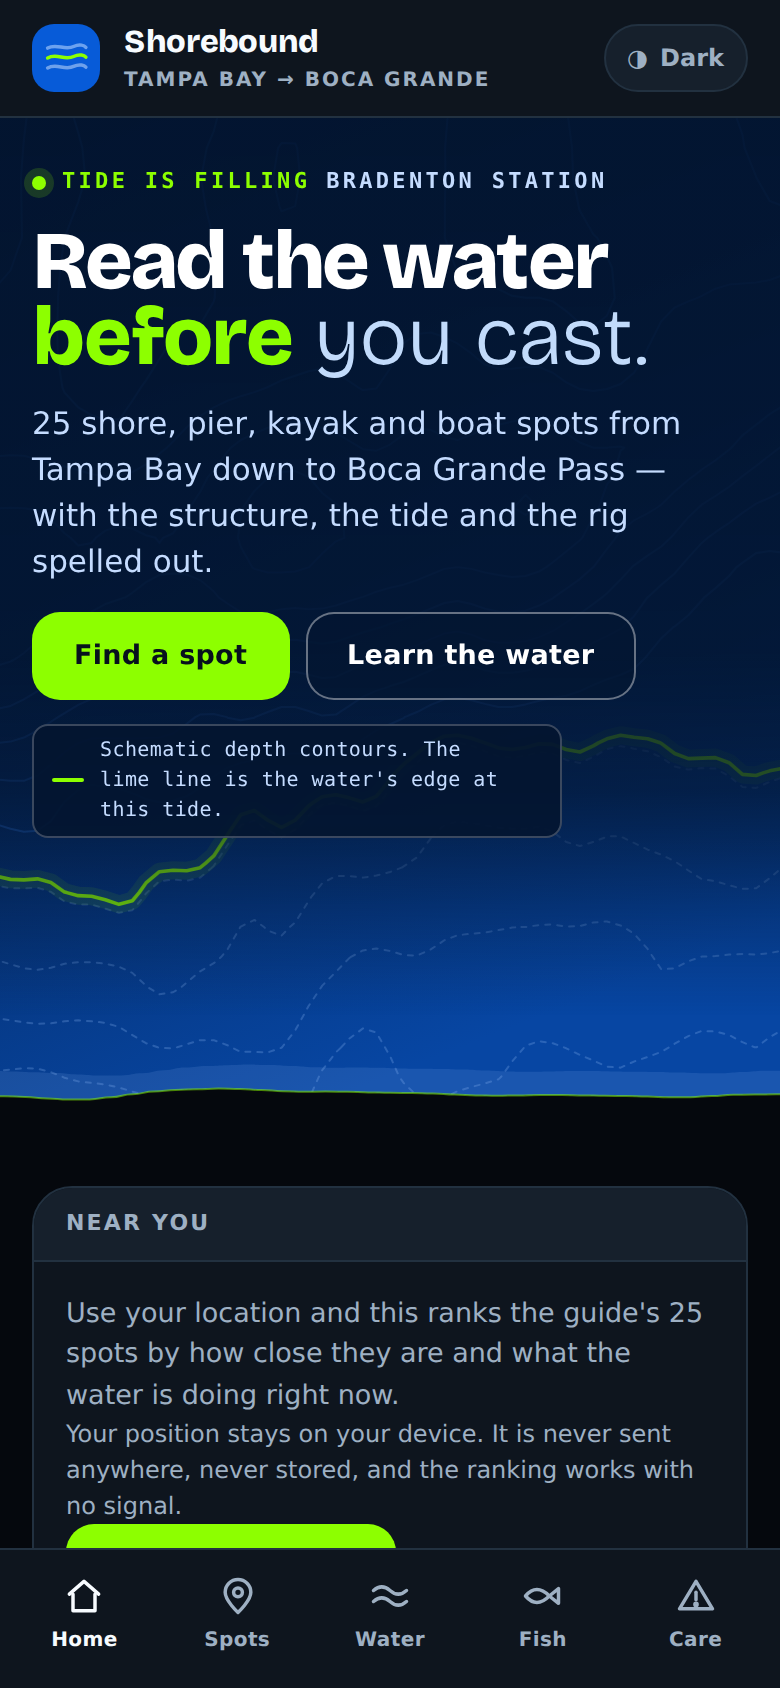
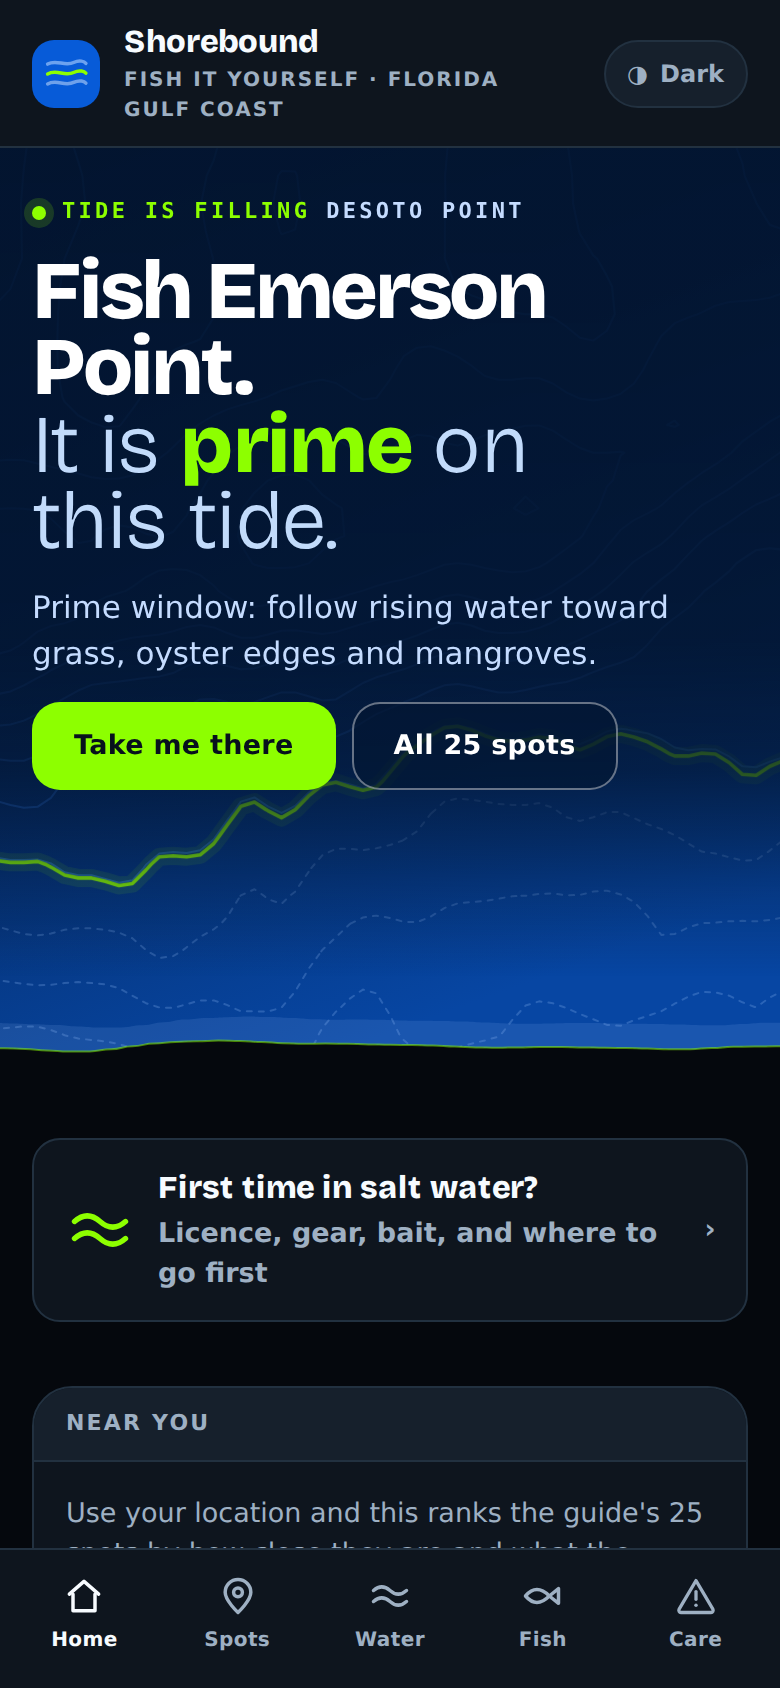
Make the home page answer instead of pitch
It opened with a poster — a slogan about reading the water over an ambient
chart — and buried the actual answer three sections down. That describes the
app rather than doing anything, which is why it read weak next to what the
app can actually do.

It knows the tide at a real station right now and which of its 25 spots fishes
that tide. So the front page says so: "Fish Emerson Point. It is prime on this
tide", with the spot's own researched playbook line underneath and a button
that goes there. Somebody opening this at half five wants a place to drive to,
not a value proposition.

The pitch is now the fallback, for when there is no reading to give — offline,
or a station that has not refreshed. Selling is what this page does when it
cannot help.

Two things the rewrite exposed. The eyebrow was printing "NOAA Desoto Point
8726273" — the record rather than the place; the id is provenance and belongs
on the conditions card. And a section headed "Go here now" under a hero that
already names the spot was the same instruction twice, so it is now that
spot's detail rather than a competing call to action.

Also gone: the chart caption. It explained the artwork instead of helping the
angler, which is exactly the register the owner flagged, and the dead CSS went
with it.

Tagline is "Fish it yourself · Florida Gulf coast". "Tampa Bay → Boca Grande"
was a coordinate, not a proposition — and for this reader, doing it himself
rather than booking someone is the whole point.
[…]

diff --git a/src/pages/Home.tsx b/src/pages/Home.tsx
@@ -25,7 +25,7 @@ import {
   tideLevel,
 } from '../components/location/art';
 import { zonesFor } from '../components/location/zones';
-import { IconCameraFish } from '../components/ui/icons';
+import { IconCameraFish, IconWater } from '../components/ui/icons';
 
 /**
  * Home (design board 01). The first fold answers one question — go where, on
@@ -267,6 +267,13 @@ export default function Home() {
   // turned, the card must stop claiming the tide is prime there.
   const isPrime = stage ? pick.tide_playbook.prime_stages.includes(stage) : false;
 
+  // Station records read "NOAA Desoto Point 8726273". The eyebrow wants the
+  // place only — the id is provenance and belongs on the conditions card.
+  const stationPlace = (conditions.data?.station_name ?? pick.tide_station.name ?? '')
+    .replace(/^NOAA\s+/i, '')
+    .replace(/\s+\d{6,}$/, '')
+    .trim();
+
   // Drives the hero's live contour. Null whenever there is no snapshot, and
   // the hero says so rather than drawing an unlabelled guess.
   const level =
@@ -276,14 +283,25 @@ export default function Home() {
 
   return (
     <>
-      {/* The hero is a chart, not a banner. Every hairline in it is a depth
-          contour through a generated bathymetry, and the one lime contour is
-          the water's edge at the tide the reference station is predicting
-          right now — so the picture moves through the day with the thing the
-          whole guide is about. It is labelled as a schematic, because it is
-          one: no location on this coast has been surveyed for this drawing.
-          With no live snapshot the plate still draws, at a mid tide, and the
-          caption says that instead of implying a reading. */}
+      {/*
+        The hero answers rather than pitches.
+
+        It used to be a poster — a slogan about reading the water over an
+        ambient chart — which described the app instead of doing anything. But
+        this guide knows the tide at a real station right now and which of its
+        25 spots fishes that tide, so the front page can just say so. A person
+        opening this at half five in the morning wants a place to drive to, not
+        a value proposition.
+
+        The chart stays as the backdrop, and the lime contour is still the
+        water's edge at the live tide, so the picture moves through the day
+        with the thing the guide is about. It is a schematic, not a survey of
+        anywhere; nothing on the page claims otherwise.
+
+        The pitch is the FALLBACK, for the case where there is no reading to
+        give — offline, or a station that has not refreshed. Selling is what
+        this page does when it cannot help.
+      */}
       <section className="hero">
         <HeroChart level={level} />
         <div className="hero-scrim" aria-hidden="true" />
@@ -294,41 +312,75 @@ export default function Home() {
               <>
                 <span className="dot" aria-hidden="true" />
                 <span className="now">{STAGE_CHIP[stage]}</span>
-                <span className="at">{pick.region} station</span>
+                <span className="at">{stationPlace}</span>
               </>
             ) : (
               <span className="at">Shore fishing guide · Florida Gulf coast</span>
             )}
           </p>
-          {/* The reader is an accomplished angler who has never fished salt.
-              Not a beginner — displaced. The headline has to say that in his
-              own terms, or it reads as an app for people who cannot fish. */}
-          <h1 className="rise">
-            <span className="hl-a">You know how to fish.</span>
-            <span className="hl-b">
-              You just don't know <em>this</em> water.
-            </span>
-          </h1>
-          <p className="hero-sub">
-            {locations.length} spots from St. Petersburg to Boca Grande Pass — where to
-            stand, which tide to stand there on, what to throw, and how to hold what
-            you catch without it hurting you.
-          </p>
-          <div className="hero-cta">
-            <Link className="btn btn-lime" to="/locations">
-              Find a spot
-            </Link>
-            <Link className="btn btn-ghost" to="/care">
-              What will hurt you
-            </Link>
-          </div>
-          <p className="hero-key">
-            <span className="swatch" aria-hidden="true" />
-            {level === null
-              ? 'Not a chart of this spot — the lime line sits at mid tide.'
-              : 'Not a chart of this spot — the lime line is the tide right now.'}
-          </p>
+
+          {stage ? (
+            <>
+              <h1 className="rise">
+                <span className="hl-a">Fish {pick.name.split(' / ')[0]}.</span>
+                <span className="hl-b">
+                  {isPrime ? (
+                    <>It is <em>prime</em> on this tide.</>
+                  ) : (
+                    <>Best of the {locations.length} right now.</>
+                  )}
+                </span>
+              </h1>
+              <p className="hero-sub">
+                {pick.tide_playbook[stage]}
+              </p>
+              <div className="hero-cta">
+                <Link className="btn btn-lime" to={`/locations/${pick.slug}`}>
+                  Take me there
+                </Link>
+                <Link className="btn btn-ghost" to="/locations">
+                  All {locations.length} spots
+                </Link>
+              </div>
+            </>
+          ) : (
+            <>
+              <h1 className="rise">
+                <span className="hl-a">You know how to fish.</span>
+                <span className="hl-b">
+                  You just don&rsquo;t know <em>this</em> water.
+                </span>
+              </h1>
+              <p className="hero-sub">
+                {locations.length} spots from St. Petersburg to Boca Grande Pass — where to
+                stand, which tide to stand there on, what to throw, and how to hold what you
+                catch without it hurting you.
+              </p>
+              <div className="hero-cta">
+                <Link className="btn btn-lime" to="/locations">
+                  Find a spot
+                </Link>
+                <Link className="btn btn-ghost" to="/care">
+                  What will hurt you
+                </Link>
+              </div>
+            </>
+          )}
         </div>
+      </section>
+
+      {/* First trip on this coast is a different job from picking tonight's
+          spot, and the reader this guide is for is often on his first. */}
+      <section className="sect" aria-labelledby="startline">
+        <h2 className="vh" id="startline">New to salt water</h2>
+        <Link className="idtile" to="/start" aria-label="Start here — licence, gear and bait">
+          <IconWater className="ic" />
+          <span>
+            <b>First time in salt water?</b>
+            <em>Licence, gear, bait, and where to go first</em>
+          </span>
+          <Chevron />
+        </Link>
       </section>
 
       <section className="sect" aria-labelledby="nearyou">
@@ -344,7 +396,7 @@ export default function Home() {
       </section>
 
       <section className="sect" aria-labelledby="gohere">
-        <SectionTitle id="gohere">Go here now</SectionTitle>
+        <SectionTitle id="gohere">{pick.name}, in detail</SectionTitle>
         <div className="rec">
           {/* The recommendation used to open with a photo plate, but no location
               has a licensed photograph, so it always rendered as an empty

diff --git a/src/styles/welcome.css b/src/styles/welcome.css
@@ -15,10 +15,11 @@
 
 .wl{display:block;background:var(--bg)}
 
-/* Section rhythm. One rule, so a section never quietly disagrees with its
-   neighbour about padding. */
+/* Section rhythm. Stated on each element rather than as a `> * + *` flow rule:
+   that rule has the same specificity as the element resets below it and quietly
+   lost to whichever happened to be declared last, which is exactly the class of
+   bug that leaves two paragraphs welded together on one section and not another. */
 .wl-band{padding:var(--s7) var(--s4)}
-.wl-band > * + *{margin-top:var(--s5)}
 @media (min-width:900px){
   .wl-band{padding:var(--s9) var(--s7)}
 }
@@ -31,10 +32,11 @@
   line-height:1.6;color:var(--m)}
 
 .wl-h2{font-family:var(--ff-display);font-weight:800;letter-spacing:-.028em;line-height:1.02;
-  font-size:clamp(26px,6.2vw,40px);margin:var(--s2) 0 0;max-width:20ch}
-.wl-lede{margin:0;max-width:60ch;font-size:var(--fs-h3);line-height:var(--lh-body);color:var(--t)}
-.wl-p{margin:0;max-width:64ch;line-height:var(--lh-body)}
+  font-size:clamp(26px,6.2vw,40px);margin:var(--s3) 0 0;max-width:20ch}
+.wl-lede{margin:var(--s4) 0 0;max-width:60ch;font-size:var(--fs-h3);line-height:var(--lh-body);color:var(--t)}
+.wl-p{margin:var(--s4) 0 0;max-width:64ch;line-height:var(--lh-body)}
 .wl-p + .wl-p{margin-top:var(--s3)}
+.wl-band > .wl-note{display:block;margin:var(--s4) 0 0;max-width:70ch}
 
 /* ---------------------------------------------------------------- 1. HERO */
 
@@ -62,10 +64,13 @@
 /* The fact line. Deliberately a caption and not a row of stat tiles: these are
    five small checkable numbers, not a dashboard. */
 .wl-facts{display:flex;flex-wrap:wrap;gap:6px var(--s3);margin:var(--s5) 0 0;padding:0;list-style:none;
-  font-family:var(--ff-mono);font-size:var(--fs-micro);letter-spacing:.12em;text-transform:uppercase;
+  font-family:var(--ff-mono);font-size:var(--fs-micro);letter-spacing:.08em;text-transform:uppercase;
   color:var(--b200)}
+/* The separator trails its own item rather than leading the next one, so a
+   wrapped line never opens with a stray bullet pretending to be a list. */
 .wl-facts li{display:flex;align-items:center;gap:var(--s3)}
-.wl-facts li + li::before{content:"";width:3px;height:3px;border-radius:50%;background:var(--g400);flex:none}
+.wl-facts li:not(:last-child)::after{content:"";width:3px;height:3px;border-radius:50%;
+  background:var(--g400);flex:none}
 .wl-facts b{color:var(--n00);font-weight:700}
 
 /* ---- the signature: one tide cycle, four stages named ---- */
@@ -75,7 +80,11 @@
 .wl-tideline .line{fill:none;stroke:var(--g400);stroke-width:2.5;stroke-linecap:round;
   vector-effect:non-scaling-stroke;stroke-dasharray:1;stroke-dashoffset:0}
 .wl-tideline .mean{stroke:rgba(255,255,255,.16);stroke-width:1;vector-effect:non-scaling-stroke}
-.wl-tideline .dot{fill:var(--g400);stroke:var(--b900);stroke-width:3;vector-effect:non-scaling-stroke}
+/* Stage marks are vertical leaders down to their label, not dots: the band is
+   drawn with preserveAspectRatio="none", which turns a circle into an ellipse
+   at every width but leaves a vertical line vertical. */
+.wl-tideline .tick{stroke:var(--g400);stroke-width:1.5;vector-effect:non-scaling-stroke;opacity:.55}
+.wl-tideline .cap{stroke:var(--g400);stroke-width:7;stroke-linecap:round;vector-effect:non-scaling-stroke}
 
 .wl-stages{display:grid;grid-template-columns:repeat(4,1fr);gap:var(--s1);margin:var(--s2) 0 0;
   padding:0;list-style:none;text-align:center;
@@ -89,11 +98,11 @@
      independent of the rendered width. */
   .wl-tideline .line{animation:wl-draw 1.9s cubic-bezier(.3,.9,.3,1) .15s both}
   @keyframes wl-draw{from{stroke-dashoffset:1}to{stroke-dashoffset:0}}
-  .wl-tideline .dot{animation:wl-mark .45s ease-out both}
-  .wl-tideline .dot:nth-of-type(1){animation-delay:.55s}
-  .wl-tideline .dot:nth-of-type(2){animation-delay:.95s}
-  .wl-tideline .dot:nth-of-type(3){animation-delay:1.35s}
-  .wl-tideline .dot:nth-of-type(4){animation-delay:1.75s}
+  .wl-tideline .mark{animation:wl-mark .45s ease-out both}
+  .wl-tideline .mark:nth-of-type(1){animation-delay:.55s}
+  .wl-tideline .mark:nth-of-type(2){animation-delay:.95s}
+  .wl-tideline .mark:nth-of-type(3){animation-delay:1.35s}
+  .wl-tideline .mark:nth-of-type(4){animation-delay:1.75s}
   @keyframes wl-mark{from{opacity:0}to{opacity:1}}
 }
 
@@ -151,19 +160,19 @@
 .wl-care .wl-eyebrow{color:var(--lime-text)}
 .wl-care .wl-h2{max-width:16ch}
 
-.wl-hazards{display:grid;gap:var(--s3);grid-template-columns:1fr;margin:0;padding:0;list-style:none}
+.wl-hazards{display:grid;gap:var(--s3);grid-template-columns:1fr;margin:var(--s6) 0 0;padding:0;list-style:none}
 @media (min-width:600px){.wl-hazards{grid-template-columns:1fr 1fr}}
 @media (min-width:900px){.wl-hazards{grid-template-columns:repeat(3,1fr)}}
 .wl-haz{display:grid;gap:var(--s2);align-content:start;padding:var(--s4);
   background:var(--c2);border:1px solid var(--l);border-radius:var(--ra-md)}
 .wl-haz h3{font-family:var(--ff-display);font-size:var(--fs-h3);font-weight:800;margin:0}
 .wl-haz p{margin:0;font-size:var(--fs-sm);line-height:var(--lh-body);color:var(--m)}
-.wl-haz .chip{align-self:start}
+.wl-haz .chip{justify-self:start;height:auto;padding:4px 11px;white-space:normal}
 
 /* The claim is enforced by a test, so the test is the evidence. Same ground as
    the hero band on purpose — this block and the tideline are the two places
    the page shows you the water rather than describing it. */
-.wl-proof{display:grid;gap:var(--s4)}
+.wl-proof{display:grid;gap:var(--s4);margin:var(--s7) 0 0}
 @media (min-width:900px){.wl-proof{grid-template-columns:minmax(0,1fr) minmax(0,1.1fr);align-items:start;gap:var(--s6)}}
 .wl-proof h3{font-family:var(--ff-display);font-weight:800;letter-spacing:-.02em;
   font-size:clamp(19px,4.4vw,24px);margin:0 0 var(--s3);max-width:22ch}
@@ -193,15 +202,11 @@
 @media (min-width:900px){
   .wl-shots{grid-auto-flow:row;grid-template-columns:repeat(5,minmax(0,1fr));
     overflow:visible;margin-inline:0;padding-inline:0;gap:var(--s3)}
-  /* The strip sits on the same curve as the hero: low, rising, high, falling,
-     low. It is the one place the signature is allowed to repeat. */
-  .wl-shot:nth-child(2),.wl-shot:nth-child(4){transform:translateY(calc(var(--s4) * -1))}
-  .wl-shot:nth-child(3){transform:translateY(calc(var(--s6) * -1))}
 }
 
 /* ------------------------------------------------------- 5. WHY NOT ANOTHER */
 
-.wl-why{display:grid;gap:var(--s7)}
+.wl-why{display:grid;gap:var(--s7);margin:var(--s6) 0 0}
 @media (min-width:900px){.wl-why{grid-template-columns:1fr 1fr;gap:var(--s7)}}
 .wl-why h3{font-family:var(--ff-display);font-weight:800;letter-spacing:-.02em;
   font-size:clamp(19px,4.4vw,24px);margin:0 0 var(--s3);max-width:24ch}
@@ -217,7 +222,7 @@
 .wl-signup{background:var(--c3);border:1px solid var(--l);border-radius:var(--ra-lg);
   padding:var(--s6) var(--s4)}
 @media (min-width:900px){.wl-signup{padding:var(--s7)}}
-.wl-form{display:flex;flex-wrap:wrap;gap:var(--s3);margin:var(--s4) 0 0;max-width:560px}
+.wl-form{display:flex;flex-wrap:wrap;gap:var(--s3);margin:var(--s5) 0 0;max-width:560px}
 .wl-field{flex:1 1 240px;display:grid;gap:6px}
 .wl-field label{font-family:var(--ff-mono);font-size:var(--fs-micro);letter-spacing:.14em;
   text-transform:uppercase;color:var(--m)}

diff --git a/src/pages/Welcome.tsx b/src/pages/Welcome.tsx
@@ -78,7 +78,10 @@ function Tideline() {
         <line className="mean" x1="0" y1={CURVE_H / 2} x2={CURVE_W} y2={CURVE_H / 2} />
         <path className="line" d={tidePath()} pathLength={1} />
         {marks.map((m) => (
-          <circle key={m.x} className="dot" cx={m.x} cy={m.y} r="7" />
+          <g className="mark" key={m.x}>
+            <line className="tick" x1={m.x} y1={m.y} x2={m.x} y2={CURVE_H} />
+            <line className="cap" x1={m.x} y1={m.y} x2={m.x} y2={m.y + 0.01} />
+          </g>
         ))}
       </svg>
       <ol className="wl-stages">
@@ -233,7 +236,7 @@ const SCREENS = [
     file: 'shops.png',
     title: 'Bait and tackle',
     alt: 'Shorebound bait and tackle directory showing shop hours and the source each listing was checked against',
-    caption: 'Hours we could confirm first-hand, and the listings where we could not, said plainly.',
+    caption: 'Hours we could confirm first-party, the ones we could not, and which shops pay to stand out.',
   },
 ];
 
@@ -453,10 +456,9 @@ export default function Welcome() {
               {'it('}
               <b>{"'keeps Handle With Care free'"}</b>
               {', () => {\n'}
-              {"  const care = CAPABILITIES.find((c) => c.id === "}
+              {"  expect(DEFAULT_MATRIX["}
               <b>{"'care.full'"}</b>
-              {');\n'}
-              {'  expect(care?.free).toBe(true);\n'}
+              {'].free).toBe(true);\n'}
               {'});'}
             </code>
           </pre>

diff --git a/src/styles/home.css b/src/styles/home.css
@@ -41,13 +41,6 @@
 .hero .btn-ghost{border-color:rgba(255,255,255,.4);color:#fff;background:rgba(3,21,48,.6)}
 .hero .btn-ghost:hover{background:rgba(255,255,255,.16);color:#fff}
 
-/* Legend for the plate. The drawing is decorative, so this line is where the
-   drawing is explained — and where it is admitted to be a schematic. */
-.hero-key{display:inline-flex;align-items:center;gap:8px;margin:0;max-width:44ch;
-  font-family:var(--ff-mono);font-size:var(--fs-micro);line-height:var(--lh-body);letter-spacing:.02em;color:#c5dcff;
-  background:rgba(3,21,48,.9);border:1px solid rgba(255,255,255,.22);border-radius:8px;padding:5px 9px}
-.hero-key .swatch{width:16px;height:2px;flex:none;border-radius:2px;background:var(--g400)}
-
 @media (prefers-reduced-motion:no-preference){
   /* Load: the waterline sweeps in from the west, once. */
   .hero-wipe{transform-origin:0 0;animation:tidewipe 1.5s cubic-bezier(.22,1,.36,1) .25s both}

diff --git a/src/App.tsx b/src/App.tsx
@@ -12,6 +12,7 @@ import Water from './pages/Water';
 import Tides from './pages/Tides';
 import Rigs from './pages/Rigs';
 import Shops from './pages/Shops';
+import Start from './pages/Start';
 import Privacy from './pages/Privacy';
 import Support from './pages/Support';
 import Care from './pages/Care';
@@ -45,6 +46,7 @@ export default function App() {
         <Route path="/tides" element={<Page path="tides" element={<Tides />} />} />
         <Route path="/rigs" element={<Page path="rigs" element={<Rigs />} />} />
         <Route path="/shops" element={<Page path="shops" element={<Shops />} />} />
+        <Route path="/start" element={<Page path="start" element={<Start />} />} />
         {/* Reachable inside the app, not only from a marketing site:
             App Store guideline 5.1.1(i) requires the policy in both places. */}
         <Route path="/privacy" element={<Page path="privacy" element={<Privacy />} />} />

diff --git a/src/components/Layout.tsx b/src/components/Layout.tsx
@@ -89,7 +89,7 @@ export default function Layout() {
           <span>
             <span className="name">Shorebound</span>
             <span className="lab lab-xs" style={{ display: 'block' }}>
-              Tampa Bay → Boca Grande
+              Fish it yourself · Florida Gulf coast
             </span>
           </span>
         </Link>
@@ -143,6 +143,8 @@ export default function Layout() {
           buried settings screen does not qualify. */}
       <footer className="appfoot">
         <nav aria-label="Legal and support">
+          <Link to="/start">Start here</Link>
+          <Link to="/welcome">About</Link>
           <Link to="/privacy">Privacy</Link>
           <Link to="/support">Support</Link>
           <Link to="/shops">Bait &amp; tackle</Link>

diff --git a/src/test/routes.test.tsx b/src/test/routes.test.tsx
@@ -68,6 +68,7 @@ const STATIC_ROUTES = [
   '/rigs',
   '/care',
   '/shops',
+  '/start',
   '/privacy',
   '/support',
   '/welcome',
